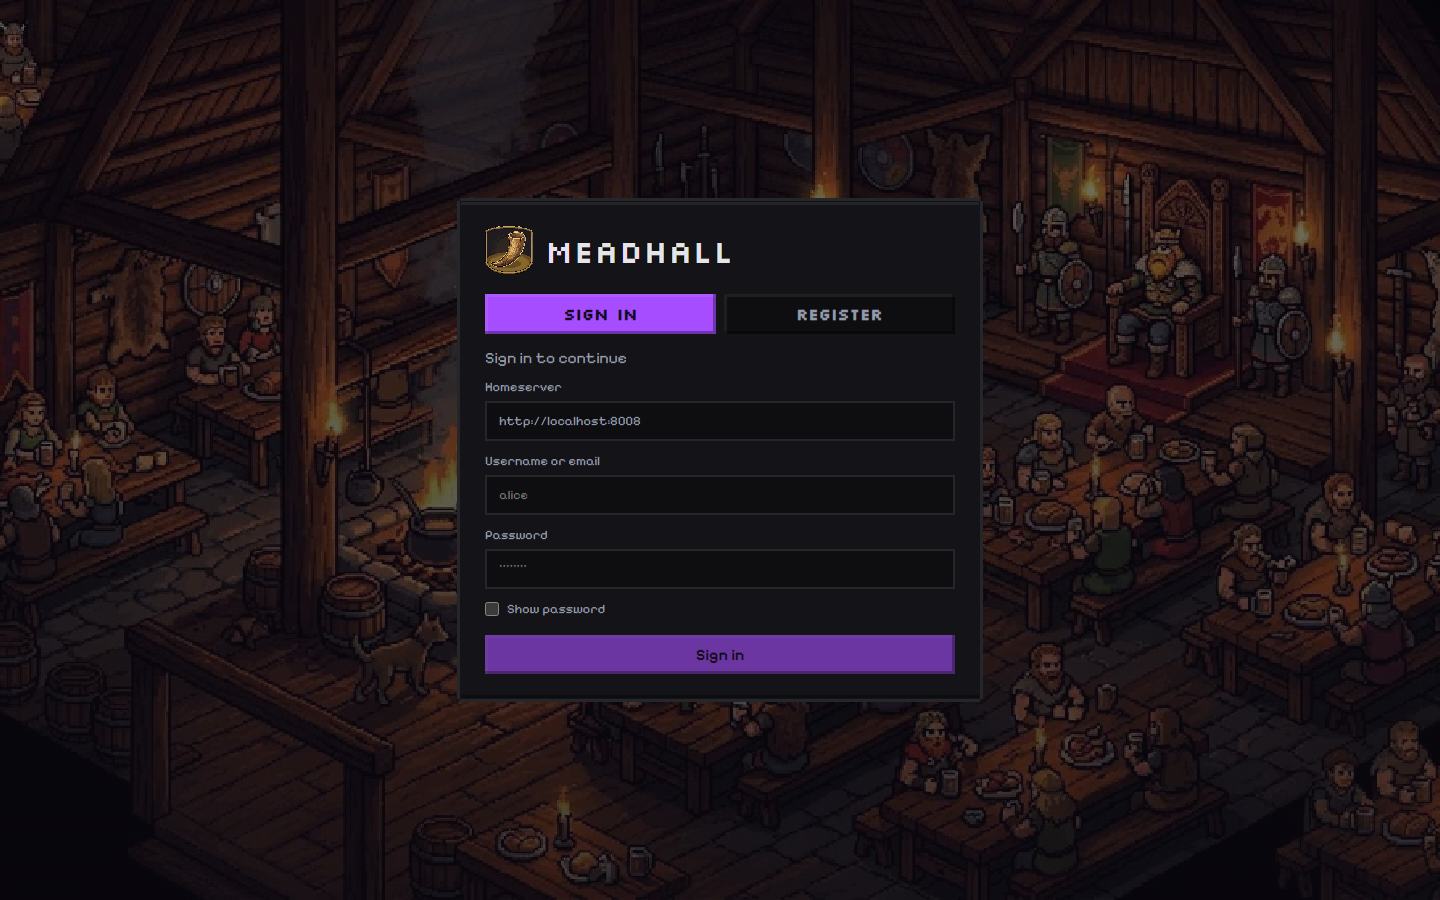
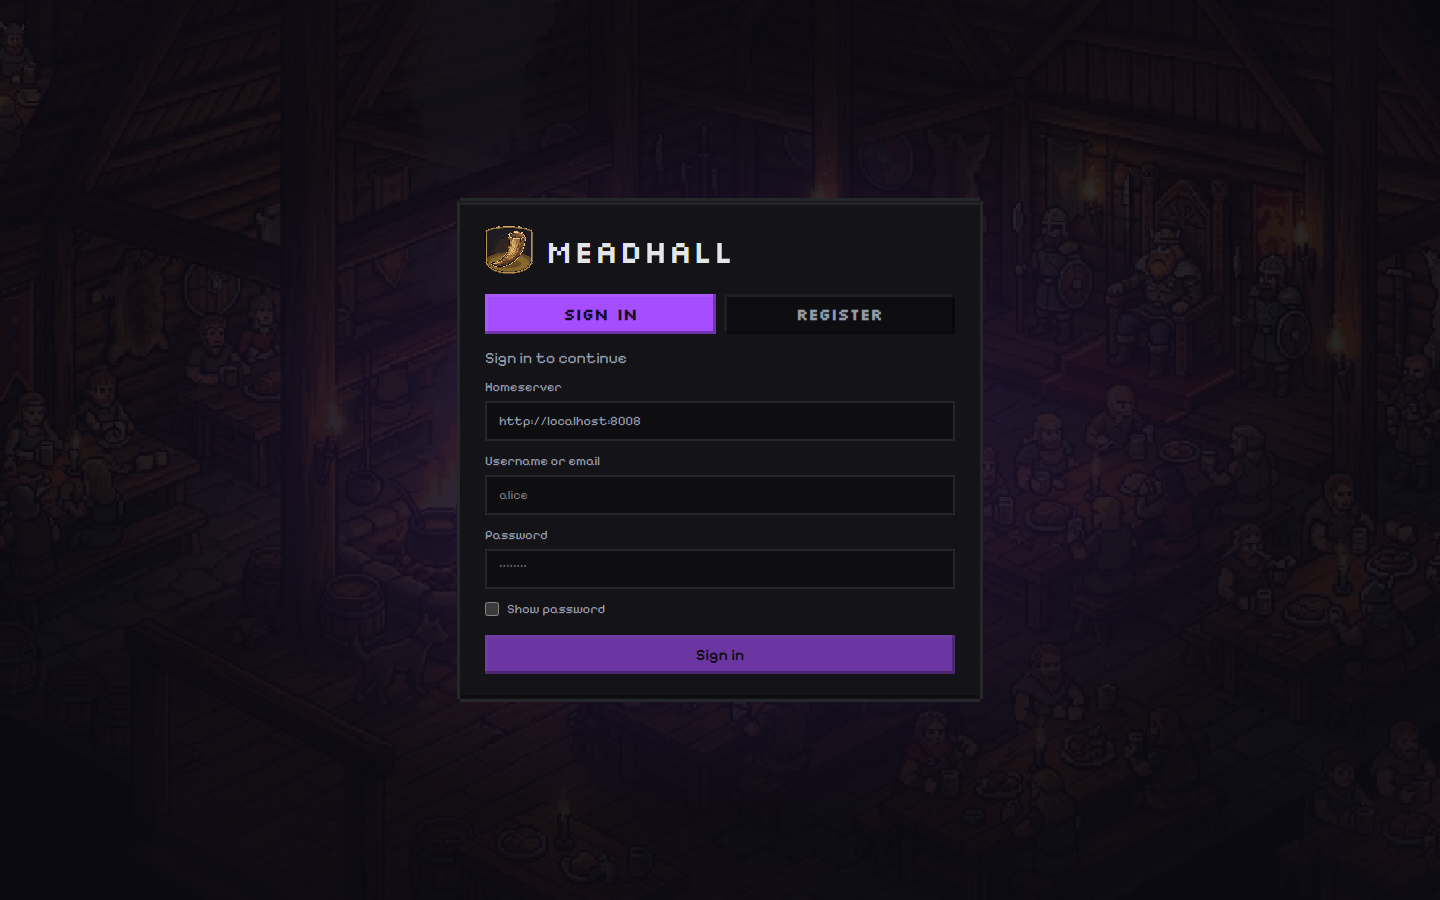
style(login): make the mead hall backdrop subtle
The artwork was too strong behind the sign-in card. It's now a faint
texture under a darker veil, with a soft glow in the accent color.
Screenshots recaptured.

diff --git a/apps/web/src/ui/styles/App.css b/apps/web/src/ui/styles/App.css
@@ -75,10 +75,11 @@ textarea {
     background: var(--bg-app);
 }
 
-/* Sign-in screen: the mead hall artwork behind the card, darkened so the card stays readable. */
+/* Sign-in screen: the mead hall artwork as a faint texture behind the card, with a glow in the accent color. */
 .login-view.has-backdrop {
     background:
-        linear-gradient(rgba(10, 8, 16, 0.55), rgba(10, 8, 16, 0.75)),
+        radial-gradient(ellipse at center, rgba(var(--primary-rgb), 0.16), transparent 60%),
+        linear-gradient(rgba(12, 10, 18, 0.86), rgba(12, 10, 18, 0.94)),
         var(--login-backdrop) center / cover no-repeat,
         var(--bg-app);
     image-rendering: pixelated;
